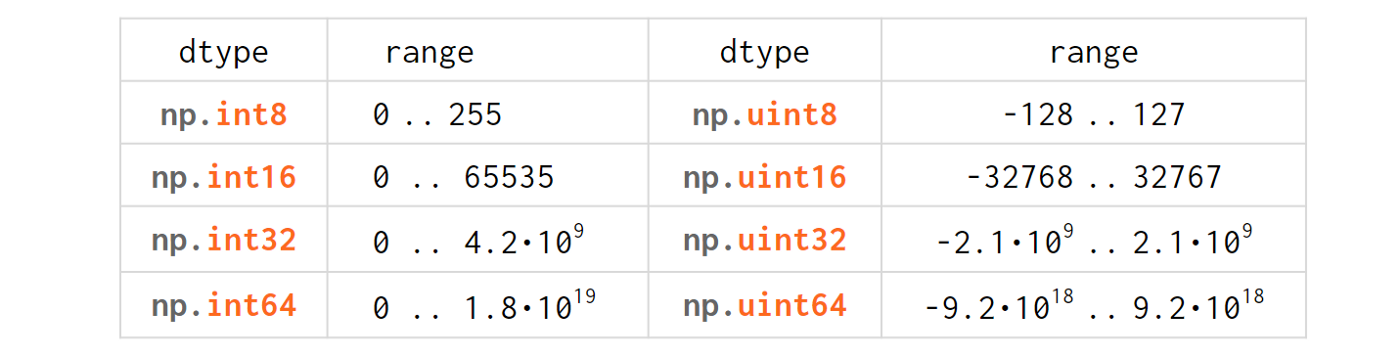
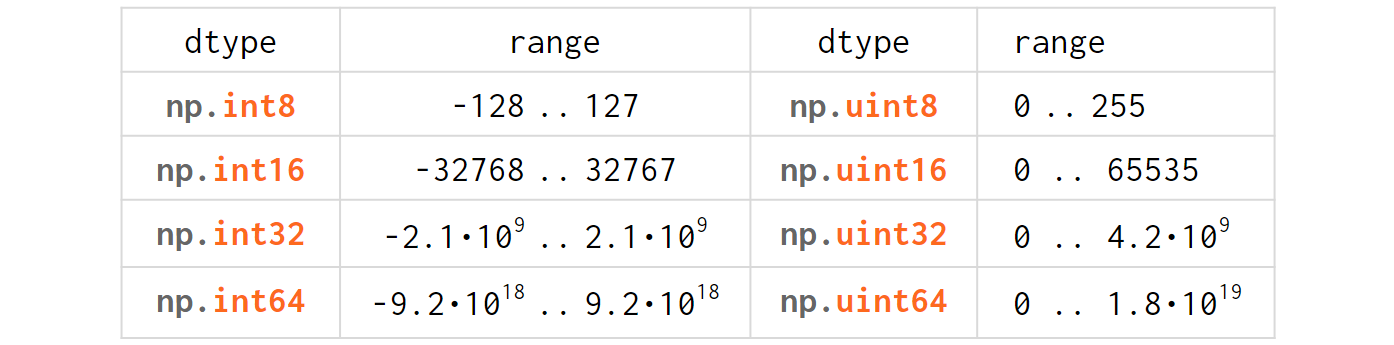
improved the integers part

diff --git a/content/numpy_data_types.rst b/content/numpy_data_types.rst
@@ -4,18 +4,19 @@ NumPy Data Types
 .. image:: img/numpy-data-types/numpy_types_diagram.png
   :alt: NumPy Types Diagram
 
-NumPy, a Python library for efficient processing of n-dimentional arrays, is pretty omnivorous when it comes to data types: it can handle just everything.
+NumPy, one of the most popular Python libraries for both data science and scientific computing, is pretty omnivorous when it comes to data types: it can handle just everything.
 
 It has its own set of ‘native’ types which it is capable of processing at full speed but it can also work with pretty much anything known to Python.
 
-Outline
+The article consists of 7 parts:
 
 1. Integers
 2. Floats (including Fractions and Decimals)
 3. Bools
 4. Strings
 5. Datetimes
-6. Type Checks
+6. Combinations thereof
+7. Type Checks
 
 ***********
 1. Integers
@@ -26,43 +27,55 @@ The integer types table in NumPy is absolutely trivial for anyone with minimal e
 .. image:: img/numpy-data-types/integers.png
   :alt: NumPy Integer Types
 
-Just like in C/C++, `u` stands for 'unsigned' and the number gives the amount of bits used to store the variable in memory (eg int64 is a 8-bytes-wide signed integer).
+Just like in C/C++, `u` stands for 'unsigned' and the number is the amount of bits used to store the variable in memory (eg int64 is a 8-bytes-wide signed integer).
 
-When you feed a Python int into NumPy, it gets converted into a native NumPy type called np.int32 (or np.int64 depending on the OS, Python version and the magnitude of the initializers).
+When you feed a Python int into NumPy, it gets converted into a native NumPy type called np.int32 (or np.int64 depending on the OS, Python version and the magnitude of the initializers):
 
 .. code:: python
 
-        >>> np.array([1,2,3]).dtype      
+        >>> np.array([1, 2, 3]).dtype      
         dtype('int32')                   # int32 on windows, int64 on linux and macos
 
-If you’re unhappy with the flavor of the integer type that NumPy has chosen for you, you can specify one explicitly via np.array([1,2,3], np.uint8) or np.array([1,2,3], 'uint8').
+If you’re unhappy with the 'flavor' of the integer type that NumPy has chosen for you, you can specify one explicitly: np.array([1,2,3], np.uint8) or np.array([1,2,3], 'uint8').
 
-NumPy works best when the width is fixed now so unlike ordinary Python the value will rotate when it reaches the maximum value for the corresponding data type:
+NumPy works best when the width of the array elements is fixed. It is faster and takes less memory, but unlike an ordinary Python int (that works in arbitrary precision arithmetic) the value will wrap when it crosses the maximum (or minimum) value for the corresponding data type:
+
+.. image:: img/numpy-data-types/int_wrapping.png
+  :alt: Int Wrapping
 
 .. code:: python
 
-        >>> np.array([2**31-1])       # or np.array([2**31-1], np.int32) on linux/macos
+        >>> np.array([255], np.uint8) + 1 # 2**8-1 is INT_MAX for uint8
+        array([0], dtype=uint8)
+
+        >>> np.array([2**31-1])           # 2**31-1 is INT_MAX for int32
         array([2147483647]) 
-        >>> np.array([2**31–1])+1     # 2**31-1 is INT_MAX for int32
+
+        >>> np.array([2**31–1]) + 1       # or np.array([2**31-1], np.int32)+1 on linux
         array([-2147483648]) 
-        >>> np.array([2**63-1])+1     # always np.int64 since v > 2**32-1
+
+        >>> np.array([2**63-1]) + 1       # always np.int64 since v > 2**32-1
         array([-9223372036854775808])
 
-NumPy doesn’t warn you about the overflows happening with arrays – only about scalars, and (to avoid flooding the output with warnings) only once:
+\— not even a warning here!
+
+With scalars it is a different story: first NumPy tries it best to promote the value to a wider type, then, if there is none, fires the overflow warning (to avoid flooding the output with warnings—only once):
 
 .. code:: python
 
-        >>> np.array([2**63–1])[0] + 1       # warning
+        >>> np.array([255], np.uint8)[0] + 1   # ok, promoted to int32(win)/int64(linux)
+        256                                     
+        >>> np.array([2**31-1])[0] + 1         # warning!
         RuntimeWarning: overflow encountered in long_scalars
-        -9223372036854775808
-        >>> np.array([2**63–1])[0] + 1       # ok!
+        -2147483648
+        >>> np.array([2**63-1])[0] + 1         # ok, warned already
         -9223372036854775808
 
 The reasoning behind such a discrimination is like this:
 
     Unlike true floating point errors (where the hardware FPU sets a flag whenever it does an atomic operation that overflows), we need to implement the integer overflow detection ourselves. We do it on the scalars, but not arrays because it would be too slow to implement for every atomic operation on arrays. *Robert Kern, one of the NumPy core developers*
 
-You can make it an error
+You can turn it into an error:
 
 .. code:: python
 
@@ -72,19 +85,21 @@ You can make it an error
 
 (although the name FloatingPointError for an *integer* overflow looks a bit misleading.)
 
-or suppress it entirely
+... or suppress it entirely:
 
 .. code:: python
 
         >>> with np.errstate(over='ignore'):
-        >>>    print(np.array([2**64-1])[0]+1)
-        -9223372036854775808
+        >>>    print(np.array([2**31-1])[0]+1)
+        -2147483648
 
-But you can’t expect it to be detected when dealing with any arrays (even with the 0-dimensional ones!).
+But you can’t expect it to be detected when dealing with arrays (even with the 0-dimensional ones!).
 
-NumPy also has a bunch of C-style aliases (eg. np.byte=np.int8, np.short=np.int16, etc), but they are getting slowly deprecated (eg `np.long in numpy v1.20.0 <https://numpy.org/devdocs/release/1.20.0-notes.html#using-the-aliases-of-builtin-types-like-np-int-is-deprecated>`_) as 'explicit is better than implicit' (but see a present-day usage of np.longdouble below). And yet some more exotic aliases: 
+NumPy also has a bunch of C-style aliases (eg. np.byte np.int8, np.short=np.int16, np.intc=int whichever width it has in C etc), but they are getting gradually phased out (eg `deprecation of np.long in NumPy v1.20.0 <https://numpy.org/devdocs/release/1.20.0-notes.html#using-the-aliases-of-builtin-types-like-np-int-is-deprecated>`_) as 'explicit is better than implicit' (but see a present-day usage of np.longdouble below). 
 
-* `np.int_` is np.int32 on 64bit windows but int64 on 64bit linux, used to designate the 'default' int. Specifying `np.int_` as a dtype is the same thing as specifying int and means "do what you would do if I didn't specify any dtype at all": np.array([1,2,3]), np.array([1,2,3], `np.int_`) and np.array([1,2,3], int) is the same thing.
+And yet some more exotic aliases: 
+
+* `np.int_` is np.int32 on 64bit windows but int64 on 64bit linux, used to designate the 'default' int. Specifying `np.int_` as a dtype is the same thing as specifying int and means "do what you would do if I didn't specify any dtype at all": np.array([1,2,3]), np.array([1,2,3], `np.int_`) and np.array([1,2,3], int) are all the same thing.
 
 * `np.intp` is np.int32 on 32bit python but np.int64 on 64bit python, ≈ssize_t in C, used in cython
 
@@ -102,16 +117,18 @@ Finally, if for some reason you need arbitrary-precision integers (Python ints) 
 2. Floats
 *********
 
-As Python did not diverge from IEEE 754-standardized C double type, the floattype transition from Python to NumPy is pretty much hassle-free:
+As Python did not diverge from IEEE 754-standardized C double type, the floating type transition from Python to NumPy is pretty much hassle-free:
 
 .. image:: img/numpy-data-types/floats.png
   :alt: NumPy Floating Types
 
-\* This is the number reported by np.finfo(np.floatnn).precision. As usual with floats, depending on what you mean by significant digits it may be 15 (FLT_DIG) or 17 (FLT_DECIMAL_DIG) for float64, etc.
+\* *This is the number reported by np.finfo(np.float<nn>).precision. As usual with floats, depending on what you mean by significant digits it may be* |br|
+|_| |_| |_| *– 15* (`FLT_DIG <https://en.cppreference.com/w/cpp/types/numeric_limits/digits10>`_) *or 17* ( `FLT_DECIMAL_DIG <https://en.cppreference.com/w/cpp/types/numeric_limits/max_digits10>`_) *for np.float64,* |br|
+|_| |_| |_| *– 6 (FLT_DIG) or 9 (FLT_DECIMAL_DIG) for np.float32, etc.*
 
-** Support for np.float128 is somewhat limited: it is unix-only (not available on windows). Also the names float96/float128 are highly misleading. Under the hood it is not __float128 but whichever longdouble means in the local C++ flavor. On x86_64 linux it is float80 (padded with zeros to for memory alignment) which is certainly wider than float64, but it comes at the cost of the processing speed. Also you risk losing precision if you inadvertently convert to Python float type. For better portability it is recommended to use an alias np.longdouble instead of np.float96 / np.float128 because that’s what will be used internally anyway.
+** *Support for np.float128 is somewhat limited: it is unix-only (=linux and mac; not available on windows). Also the names float96/float128 are highly misleading. Under the hood it is not __float128 but whichever longdouble means in the local C++ flavor. On x86_64 linux it is float80 (padded with zeros for memory alignment) which is certainly wider than float64, but comes at the cost of slower processing speed. Also you risk losing precision if you inadvertently convert it to Python float type (which is 64bit wide). For better portability it is recommended to use an alias np.longdouble instead of np.float96 / np.float128 because that’s what will be used internally anyway.*
 
-Just like in Python NumPy floats exactly represent integers - but only below a certain level (limited by the number of the significant digits):
+Just like in pure Python, NumPy floats exactly represent integers—but only below a certain level (limited by the number of the significant digits):
 
 .. code:: python
 
@@ -124,19 +141,21 @@ Just like in Python NumPy floats exactly represent integers - but only below a c
         >>> len('9279945539648888') # Don't trust the 16th decimal digit!
         16
 
-Also exactly representable are fractions like 0.5, 0.125, 0.875 where the denominator is a power of 2 (0.5=1/2, 0.125=1/8, 0.875 =7/8, etc). Any other denominator will result in a rounding error so that 0.1+0.2!=0.3. The standard approach of dealing with this problem is to compare them with a relative tolerance (to compare two non-zero arguments) and absolute tolerance (if one of the arguments is zero). For scalars it is handled by `math.isclose(a, b, *, rel_tol=1e-09, abs_tol=0.0)`, for NumPy arrays there’s a vector version `np.isclose(a, b, rtol=1e-05, atol=1e-08)`. Note that the tolerances have different names and defaults.
+Also exactly representable are fractions like 0.5, 0.125, 0.875 where the denominator is a power of 2 (0.5=1/2, 0.125=1/8, 0.875 =7/8, etc).
 
-For the financial data decimal.Decimal type is handy as it involves no additional tolerances at all:
+Any other denominator will result in a rounding error so that 0.1+0.2!=0.3. The standard approach of dealing with this problem is to compare them with a relative tolerance (to compare two non-zero arguments) and absolute tolerance (if one of the arguments is zero). For scalars it is handled by `math.isclose(a, b, *, rel_tol=1e-09, abs_tol=0.0)`, for NumPy arrays there’s a vectorized version `np.isclose(a, b, rtol=1e-05, atol=1e-08)`. Note that the tolerance arguments have different names and defaults.
+
+For the financial data decimal.Decimal type is handy as it involves no tolerances at all:
 
 .. code:: python
 
         >>> from decimal import Decimal as D
         >>> a = np.array([D('0.1'), D('0.2')]); a
         array([Decimal('0.1'), Decimal('0.2')], dtype=object)
-        >>> a.sum()
+        >>> a.sum()                     # == Decimal('0.3'), exactly      
         Decimal('0.3')
 
-But it is not a silver bullet: it also has rounding errors. The only problem it solves is the exact representation of decimal numbers that humans are used to. Plus it doesn’t support anything more complicated than arithmetic operations and a square root and runs slower than floats.
+But Decimal type is not a silver bullet: it also has rounding errors. The only problem it solves is the exact representation of decimal fractions that humans are so used to. Plus it doesn’t support anything more complicated than arithmetic operations and a square root and runs slower than floats.
 
 For pure mathematic calculations fractions.Fraction can be used:
 
@@ -150,7 +169,7 @@ For pure mathematic calculations fractions.Fraction can be used:
         >>> a.sum()
         Fraction(3, 10)
 
-It can represent any rational numbers, but pi and exp are out of luck )
+It can represent any rational number, but pi and exp are out of luck )
 
 Both Decimal and Fraction are not native types for NumPy but it is capable of working with them with all the niceties like multi-dimensions and fancy indexing, albeight at the cost of slower processing speed than that of native ints or floats.
 
@@ -158,9 +177,21 @@ Complex numbers are processed no differently than floats with extra convenience 
 
 More insights on floats can be found in the following sources:
 
-* short and nicely illustrated ‘Half precision floating point visualized¹’ (eg what’s the difference between normal and subnormal numbers)
-* more lengthy but very to-the-point, a dedicated website ‘Floating point guide²’ (eg why 0.1+0.2!=0.3)
-* long-read, a deep and thorough ‘What every computer scientist should know about floating-point arithmetic³’ (eg what’s the difference between catastrophic vs benign cancellation)
+.. |_| unicode:: 0xA0 
+   :trim:
+
+.. |br| raw:: html
+
+  <br/>
+
+\• short and nicely illustrated `‘Half-Precision Floating-Point, Visualized’ <https://observablehq.com/@rreusser/half-precision-floating-point-visualized>`_ [2] |br|
+|_| |_| |_| — eg What’s the difference between normal and subnormal numbers?
+
+\• more lengthy but very to-the-point, a dedicated website `‘Floating point guide’ <https://floating-point-gui.de/>`_ [3]  |br|
+|_| |_| |_| — eg Why 0.1+0.2!=0.3? 
+
+\• long-read, a deep and thorough `What Every Computer Scientist Should Know About Floating-Point Arithmetic, Appendix D <https://docs.oracle.com/cd/E19957-01/806-3568/ncg_goldberg.html>`_ [4]  |br|
+|_| |_| |_| — eg What’s the difference between catastrophic vs benign cancellation?
 
 ********
 3. Bools
@@ -179,7 +210,7 @@ np.bool is 28 times more memory efficient than Python’s bool ) – though in r
   :alt: NumPy Boolean Type
 
 
-The underlines in `bool_`, `str_`, etc are there to avoid clashes with Python’s types. It’s a bad idea to use reserved keywords for other things, but in this case it has an additional advantage of allowing (a generally discouraged, but useful in rare cases) from NumPy import * without shadowing Python bools, ints, etc. As of today, np.bool still works but displays a deprecation warning.
+The underlines in `bool_`, `int_`, etc are there to avoid clashes with Python’s types. It’s a bad idea to use reserved keywords for other things, but in this case it has an additional advantage of allowing (a generally discouraged, but useful in rare cases) from NumPy import * without shadowing Python bools, ints, etc. As of today, np.bool still works but displays a deprecation warning.
 
 **********
 4. Strings
@@ -192,7 +223,7 @@ Initializing a NumPy array with a list of Python strings packs them into a fixed
         >>> np.array(['abcde', 'x', 'y', 'z'])        # 4 bytes per any character
         array(['abcde', 'x', 'y', 'z'], dtype='<U5')  # => 5*4 bytes per element
 
-The abbreviation ‘<U4’ comes from the so called array protocol and it means ‘little-endian USC-4-encoded string, 5 elements long’ (USC-4≈UTF-32, a fixed width, 4-bytes per character encoding). Every NumPy type has an abbreviation as unreadable as this one, luckily they have adopted human-readable names at least for the most used dtypes.
+The abbreviation ‘<U4’ comes from the so called array protocol introduced in 2005. It means ‘little-endian USC-4-encoded string, 5 elements long’ (USC-4≈UTF-32, a fixed width, 4-bytes per character encoding). Every NumPy type has an abbreviation as unreadable as this one, luckily have they adopted human-readable names at least for the most used dtypes.
 
 Another option is to keep references to Python strs in a NumPy array of objects:
 
@@ -206,7 +237,7 @@ The first array memory footprint amounts to 164 bytes, the second one takes 128 
 .. image:: img/numpy-data-types/str.png
   :alt: NumPy Str_ Type
 
-Depending on the relative lengths of the strings either one approach can be a significant win or the other.
+Depending on the relative lengths of the strings and the number of the repeated string either one approach can be a significant win or the other.
 
 If you're dealing with a raw sequence of bytes NumPy has a fixed-length version of a Python bytes type called `np.bytes_`:
 
@@ -253,7 +284,7 @@ According to my benchmarks, basic operations work somewhat faster with str than 
 5. Datetimes
 ****************
 
-An interesting data type, capable of counting time with selectable granularity — from years to attoseconds (an aspect in which other datetime libs tend to rely on the underlying OS) — represented invariably by int64.
+An interesting data type, capable of counting time with configurable granularity — from years to attoseconds (an aspect in which other datetime libs tend to rely on the underlying OS) — represented invariably by int64.
 
 Years granularity means ‘just count the years’ — no real improvement against storing years as an integer. Days granularity is the equivalent of Python’s datetime.date. Microseconds (or nanoseconds depending on the OS) is the equivalent of Python’s datetime.datetime. And everything below is unique to np.datetime64.
 
@@ -356,7 +387,7 @@ and in operator for checking against a group of types:
 
 But for more sophisticated types like `np.str_` or `np.datetime64` it doesn’t.
 
-The recommended way⁴ of checking the dtype against the abstract types is
+The recommended way [5] of checking the dtype against the abstract types is
 
 .. code:: python
 
